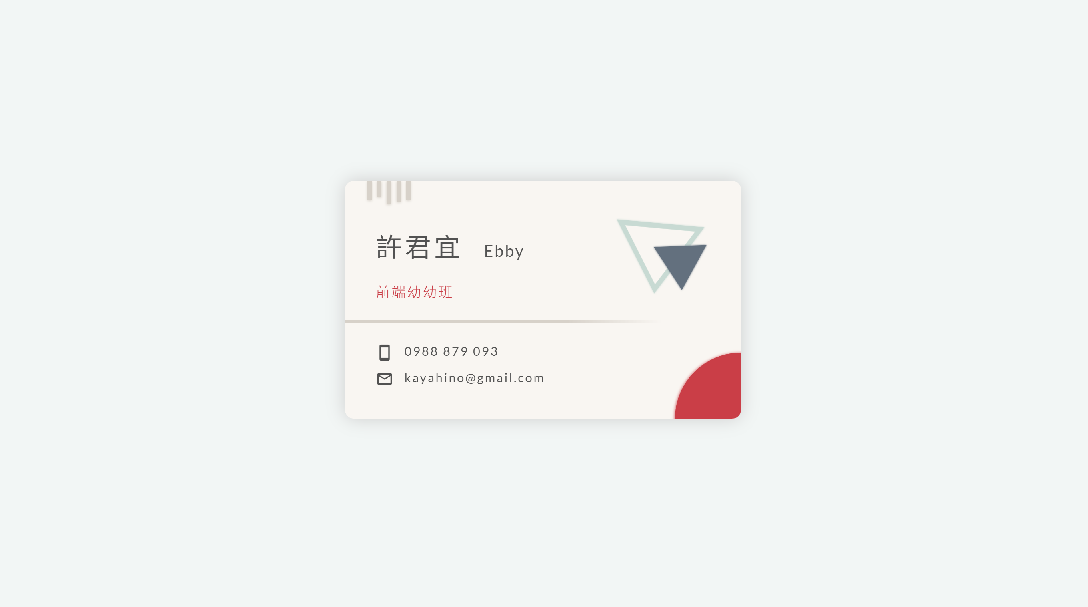
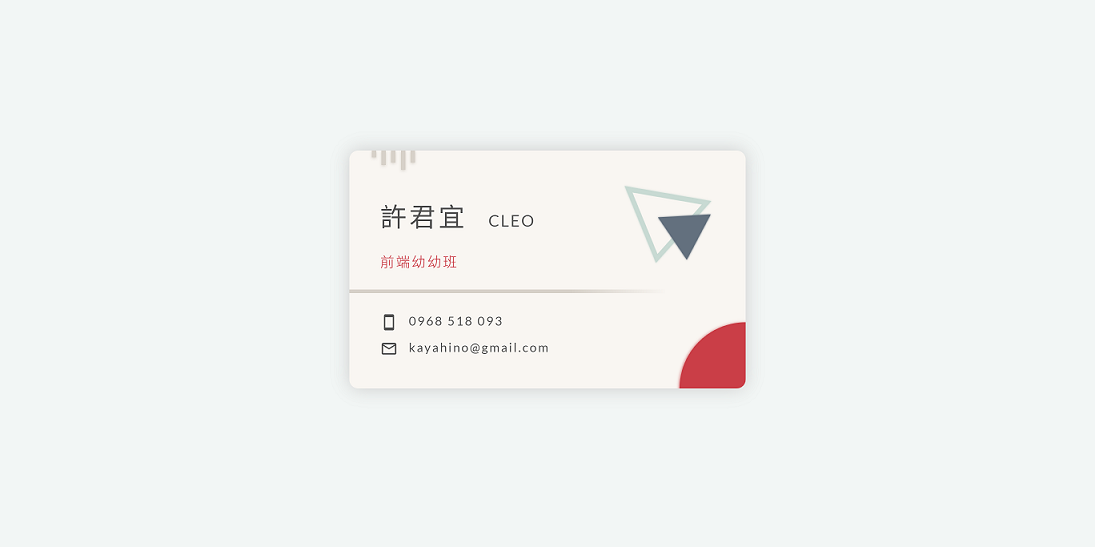
update

diff --git a/index.html b/index.html
@@ -149,15 +149,13 @@
               <span style="color: #607d8b">中央大學法語系畢業，熱愛語言與設計</span>
             </div>
             <p>
-              我對前端有高度的熱情與學習欲望，目前全職投入學習中。此外也會接觸一些UI/UX的網站或文章，培養設計思維，立志要成為兼具設計思維與開發能力的前端工程師！目前正積極投入 JavaScript 及 Vue.js 的學習。
+              我對前端有高度的熱情，目前全職投入學習中。樂於學習鑽研技術，喜歡思考如何讓用戶有更好的使用者體驗，以及打造互動式網頁，立志要成為兼具設計思維與開發能力的前端工程師！目前正積極投入 JavaScript 及 Vue.js 的學習。
             </p>
             <p>
-              我畢業後在一家日商公司擔任業務助理，後來發現一陳不變的辦公室生活不是我想要的，我想過的是每天不斷挑戰的日子，因此開啟了我的轉職之路。
-              在這將近四個月的自學過程中，我找回了夢想，傾盡所有投入前端的懷抱。
+              我畢業後於一家日商公司擔任業務助理，後來發現一陳不變的辦公室生活不是我想要的，我想過的是每天不斷挑戰的日子，於是毅然決然辭掉現在的工作，開啟了我的轉職之路。
             </p>
             <p>
-              由於非本科系出身，我知道自己必須比別人付出更多努力。一步一步地扎穩基礎，剛開始學習時間可能比較慢，但我相信之後的學習成果會以指數級增長。
-              而我那細心、力求完美的個性，相信也會成為我在前端路上發展的利器。
+              在這四個月的學習過程中，每天都在不斷學習技術，超越昨天的自己。到現在已經能完成響應式及有互動效果的多頁式網頁，接下來就是精進自己的 JS 技術，配合前端框架，並讓自己能獨立完成一個 SPA。
             </p>
           </div>
         </div>
@@ -464,7 +462,7 @@
             <div class="present-panel show" id="namecard">
               <div class="row">
                 <div class="col-md-5 d-flex flex-column justify-content-center">
-                  <div class="portfolio-present__img"><img src="images//namecard.png" alt="個人名片預覽"></div>
+                  <div class="portfolio-present__img"><img src="images//namecard.gif" alt="個人名片預覽"></div>
                   <div class="tag-wrap">
                     <span class="badge badge-dark tag">HTML</span>
                     <span class="badge badge-dark tag">CSS</span>
